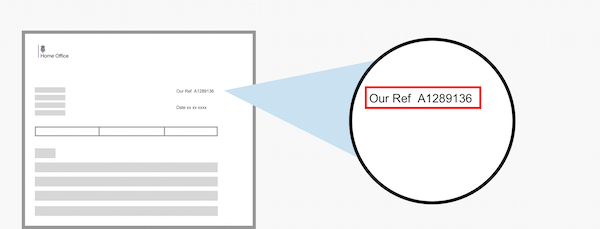
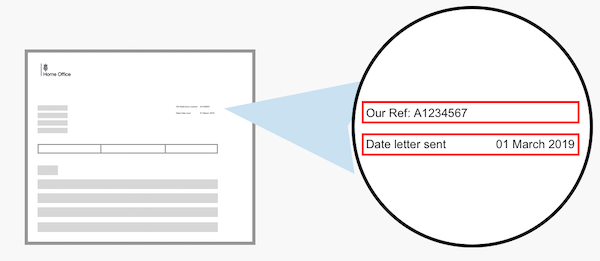
Appeal details changes (#20)

diff --git a/app/views/check-answers.html b/app/views/check-answers.html
@@ -14,11 +14,9 @@
 
             {% set contactDetails %}
                 {% if appealData.yourDetails.contactDetails.email.selected %}
-                    <strong>Email</strong><br />
                     {{ appealData.yourDetails.contactDetails.email.emailAddress }}<br />
                 {% endif %}
                 {% if appealData.yourDetails.contactDetails.text.selected %}
-                    <strong>Phone number</strong><br />
                     {{ appealData.yourDetails.contactDetails.text.phoneNumber }}<br />
                 {% endif %}
                 {% if appealData.yourDetails.contactDetails.post.selected %}
@@ -45,11 +43,8 @@
             {% endset %}
 
             {% set appellantName %}
-                <strong>Title</strong><br />
-                {{ appealData.yourDetails.personalDetails.title }}<br />
-                <strong>Given names</strong><br />
-                {{ appealData.yourDetails.personalDetails.givenNames }}<br />
-                <strong>Family name</strong><br />
+                {{ appealData.yourDetails.personalDetails.title }}
+                {{ appealData.yourDetails.personalDetails.givenNames }}
                 {{ appealData.yourDetails.personalDetails.familyName }}
             {% endset %}
 

diff --git a/app/views/home-office-details.html b/app/views/home-office-details.html
@@ -11,8 +11,8 @@
     <h1 class="govuk-heading-xl">What is your Home Office reference number and send date?</h1>
 
     <p>
-      The reference number is on the first page of the Home Office decision letter. The send date is on the
-      envelope the letter was sent in.
+      Look for the reference number and the date the letter was sent on the
+      Home Office decision letter.
     </p>
     <img src="/public/images/home_office_letter.png" alt="Where to find reference and data issued on Home Office decision letter."/>
     <form action="/home-office-details" method="post">

diff --git a/app/middleware/home-office-details.js b/app/middleware/home-office-details.js
@@ -38,7 +38,6 @@ function extraFieldErrors(fieldErrors) {
 
 // eslint-disable-next-line no-unused-vars
 function saveAndRedirect(formData = null, req) {
-  if (req.body.hasOwnProperty('save-continue')) return paths.personalDetails;
   return paths.taskList;
 }
 

diff --git a/app/middleware/date-of-birth.js b/app/middleware/date-of-birth.js
@@ -35,7 +35,6 @@ function extraFieldErrors(fieldErrors) {
 
 // eslint-disable-next-line no-unused-vars
 function saveAndRedirect(formData = null, req) {
-  if (req.body.hasOwnProperty('save-continue')) return paths.contactDetails;
   return paths.taskList;
 }
 

diff --git a/app/middleware/contact-details.js b/app/middleware/contact-details.js
@@ -45,7 +45,6 @@ function extractBody(req) {
 
 // eslint-disable-next-line no-unused-vars
 function saveAndRedirect(formData = null, req) {
-  if (req.body.hasOwnProperty('save-continue')) return paths.typeOfAppeal;
   return paths.taskList;
 }
 

diff --git a/app/middleware/type-of-appeal.js b/app/middleware/type-of-appeal.js
@@ -20,7 +20,6 @@ function extractBody(req) {
 
 // eslint-disable-next-line no-unused-vars
 function saveAndRedirect(formData = null, req) {
-  if (req.body.hasOwnProperty('save-continue')) return paths.checkAnswers;
   return paths.taskList;
 }
 
